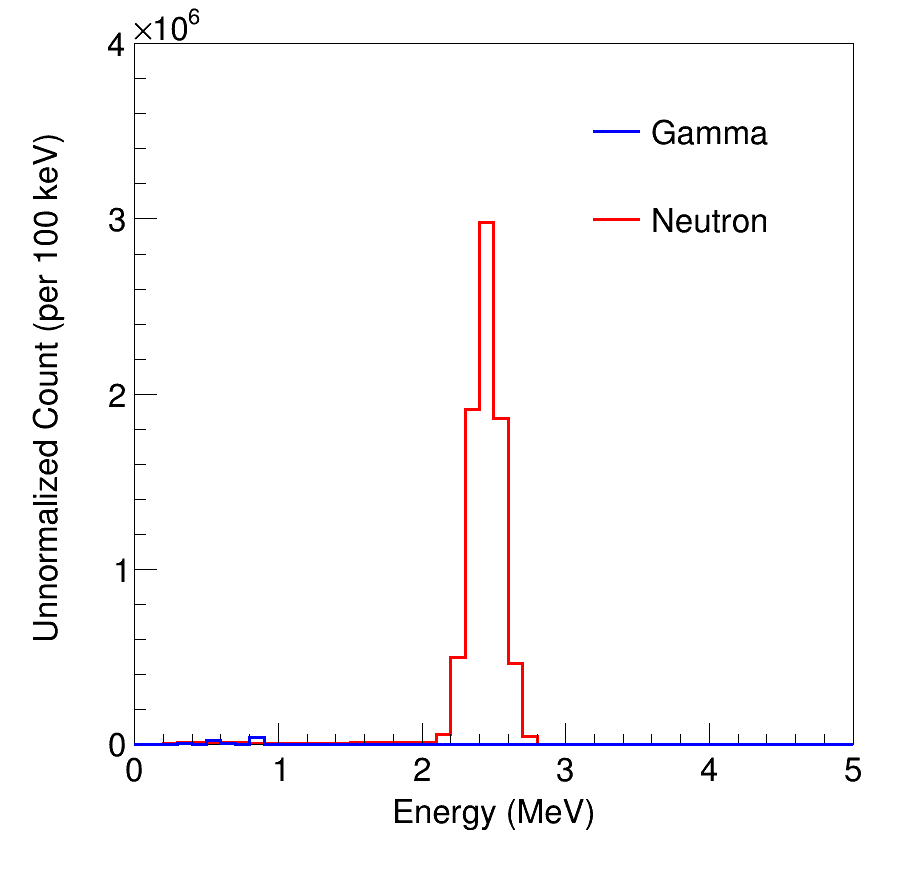
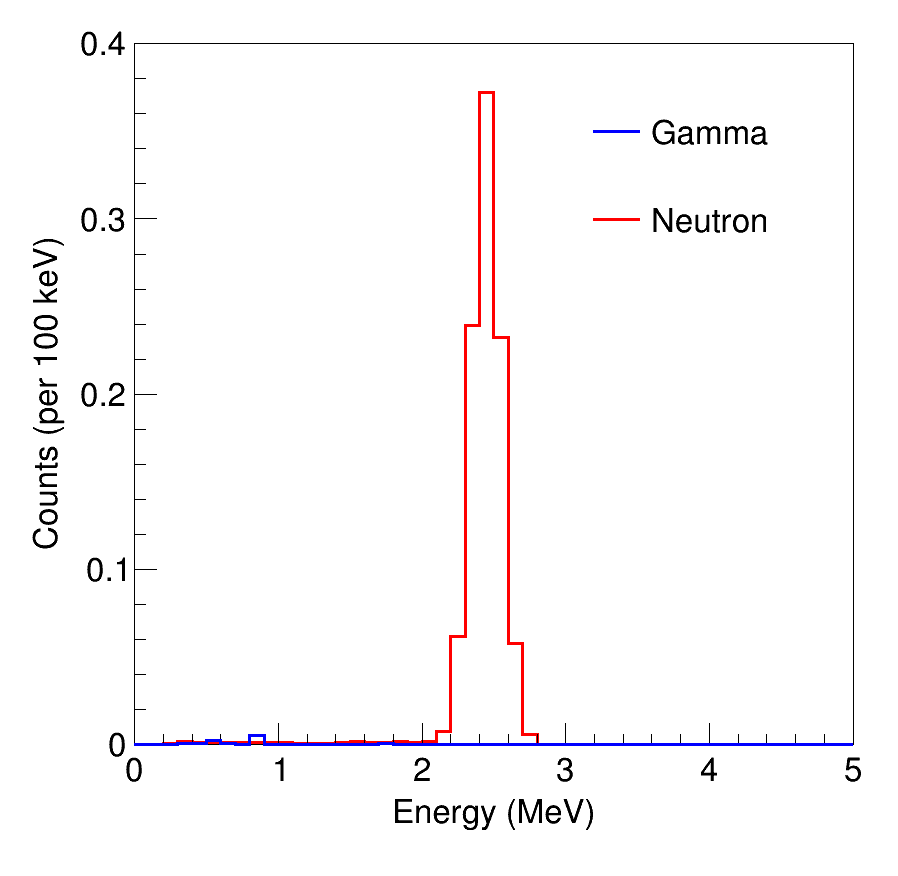
New plots

diff --git a/neutronAna/ana.cpp b/neutronAna/ana.cpp
@@ -68,7 +68,7 @@ TH1D* GetShieldedSpectrum(TF1* InputSpectrum, const int& pdgCode) {
         RawSpectra.emplace_back(spectrum, scale_output);
     }
 
-    TH1D* DoubleWeightedSpectrum = new TH1D(Form("%sSpectrum", ShieldedParticleName.Data()), ";Energy (MeV); Normalized Count (per MeV)", 60, 0, 30);
+    TH1D* DoubleWeightedSpectrum = new TH1D(Form("%sSpectrum", ShieldedParticleName.Data()), ";Energy (MeV); Normalized Count (per 500 keV)", 60, 0, 30);
     for (auto& spectrum : RawSpectra) {
         auto hist = std::get<0>(spectrum);
         double scale = std::get<1>(spectrum);
@@ -85,6 +85,14 @@ void Plotting(TH1D* ShieldedNeutrons, TH1D* ShieldedGammas) {
     auto c = new TCanvas( "c", "c", 900, 900);
     c->SetMargin(0.15, 0.05, 0.15, 0.05);
 
+    ShieldedNeutrons->Scale(1. / 1.2E7);
+    ShieldedNeutrons->GetYaxis()->SetTitle("Counts (per 500 keV)");
+    ShieldedGammas->Scale(1. / 1.2E7);
+    ShieldedGammas->GetYaxis()->SetTitle("Counts (per 500 keV)");
+
+    std::cout << "Neutrons: " << ShieldedNeutrons->Integral() << std::endl;
+    std::cout << "Gammas: " << ShieldedGammas->Integral() << std::endl;
+
     ShieldedNeutrons->SetLineColor(kRed);
     ShieldedNeutrons->SetLineWidth(3);
     ShieldedGammas->SetLineColor(kBlue);
@@ -98,7 +106,7 @@ void Plotting(TH1D* ShieldedNeutrons, TH1D* ShieldedGammas) {
     ShieldedGammas->SetTitleOffset(1.50, "Y");
     ShieldedGammas->SetTitleSize(0.04, "XY");
     ShieldedGammas->SetNdivisions(505, "XY");
-    ShieldedGammas->GetYaxis()->SetRangeUser(0, 500);
+    ShieldedGammas->GetYaxis()->SetRangeUser(0, 5E-4);
     ShieldedGammas->GetXaxis()->SetMaxDigits(2);
     ShieldedGammas->GetYaxis()->SetMaxDigits(2);
 
@@ -115,7 +123,7 @@ void Plotting(TH1D* ShieldedNeutrons, TH1D* ShieldedGammas) {
     c->SaveAs(Form("ShieldedSpectrum.pdf"));
     c->SaveAs(Form("ShieldedSpectrum.png"));
 
-    ShieldedGammas->GetYaxis()->SetRangeUser(1E-4, 1000);
+    ShieldedGammas->GetYaxis()->SetRangeUser(1E-11, 1E-3);
     c->SetLogy();
     c->SaveAs(Form("ShieldedSpectrumLogy.pdf"));
     c->SaveAs(Form("ShieldedSpectrumLogy.png"));

diff --git a/neutronAna/neutronInput/neutron.C b/neutronAna/neutronInput/neutron.C
@@ -32,6 +32,11 @@ void neutron() {
     auto c = new TCanvas( "c", "c", 900, 900);
     c->SetMargin(0.15, 0.05, 0.15, 0.05);
 
+    ShieldedNeutrons->Scale(1. / 8E6);
+    ShieldedNeutrons->GetYaxis()->SetTitle("Counts (per 100 keV)");
+    ShieldedGammas->Scale(1. / 8E6);
+    ShieldedGammas->GetYaxis()->SetTitle("Counts (per 100 keV)");
+
     ShieldedNeutrons->SetLineColor(kRed);
     ShieldedNeutrons->SetLineWidth(3);
     ShieldedGammas->SetLineColor(kBlue);
@@ -45,7 +50,7 @@ void neutron() {
     ShieldedNeutrons->SetTitleOffset(1.50, "Y");
     ShieldedNeutrons->SetTitleSize(0.04, "XY");
     ShieldedNeutrons->SetNdivisions(505, "XY");
-    ShieldedNeutrons->GetYaxis()->SetRangeUser(0, 4E6);
+    ShieldedNeutrons->GetYaxis()->SetRangeUser(0, 0.4);
     ShieldedNeutrons->GetXaxis()->SetMaxDigits(2);
     ShieldedNeutrons->GetYaxis()->SetMaxDigits(3);
 
@@ -62,7 +67,7 @@ void neutron() {
     c->SaveAs(Form("ShieldedSpectrum.pdf"));
     c->SaveAs(Form("ShieldedSpectrum.png"));
 
-    ShieldedNeutrons->GetYaxis()->SetRangeUser(1E0, 1E7);
+    ShieldedNeutrons->GetYaxis()->SetRangeUser(1E-7, 1);
     c->SetLogy();
     c->SaveAs(Form("ShieldedSpectrumLogy.pdf"));
     c->SaveAs(Form("ShieldedSpectrumLogy.png"));
